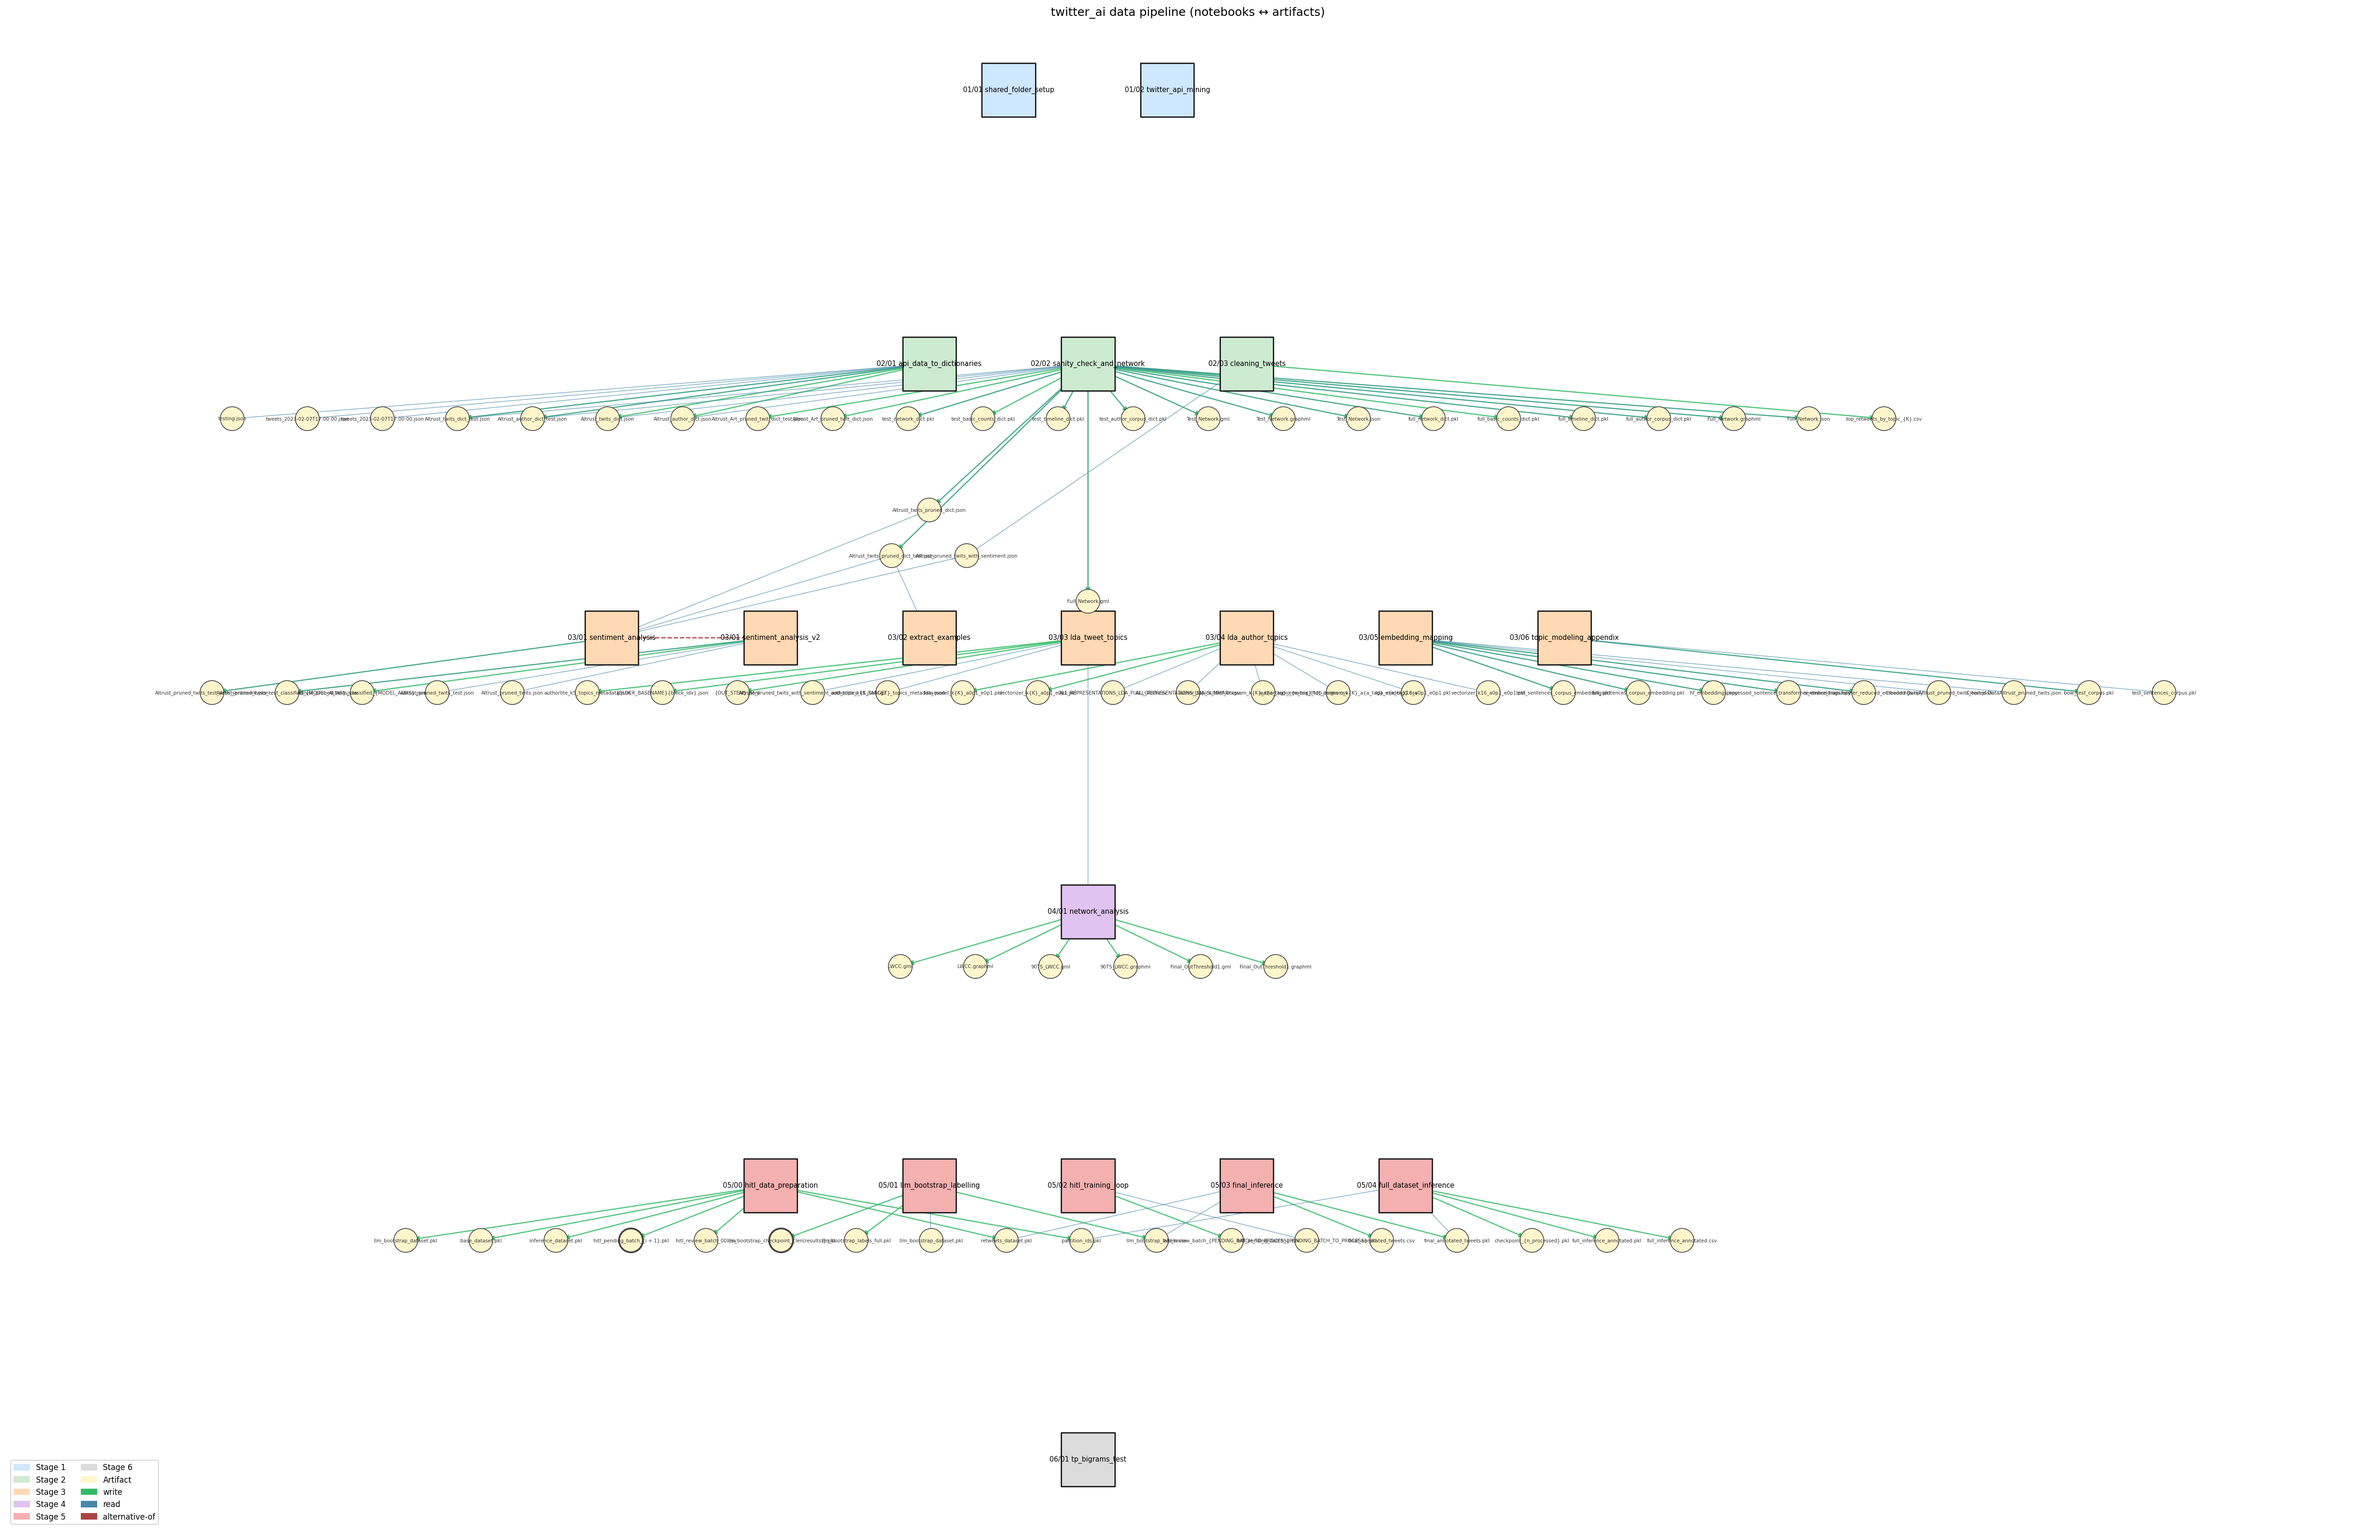
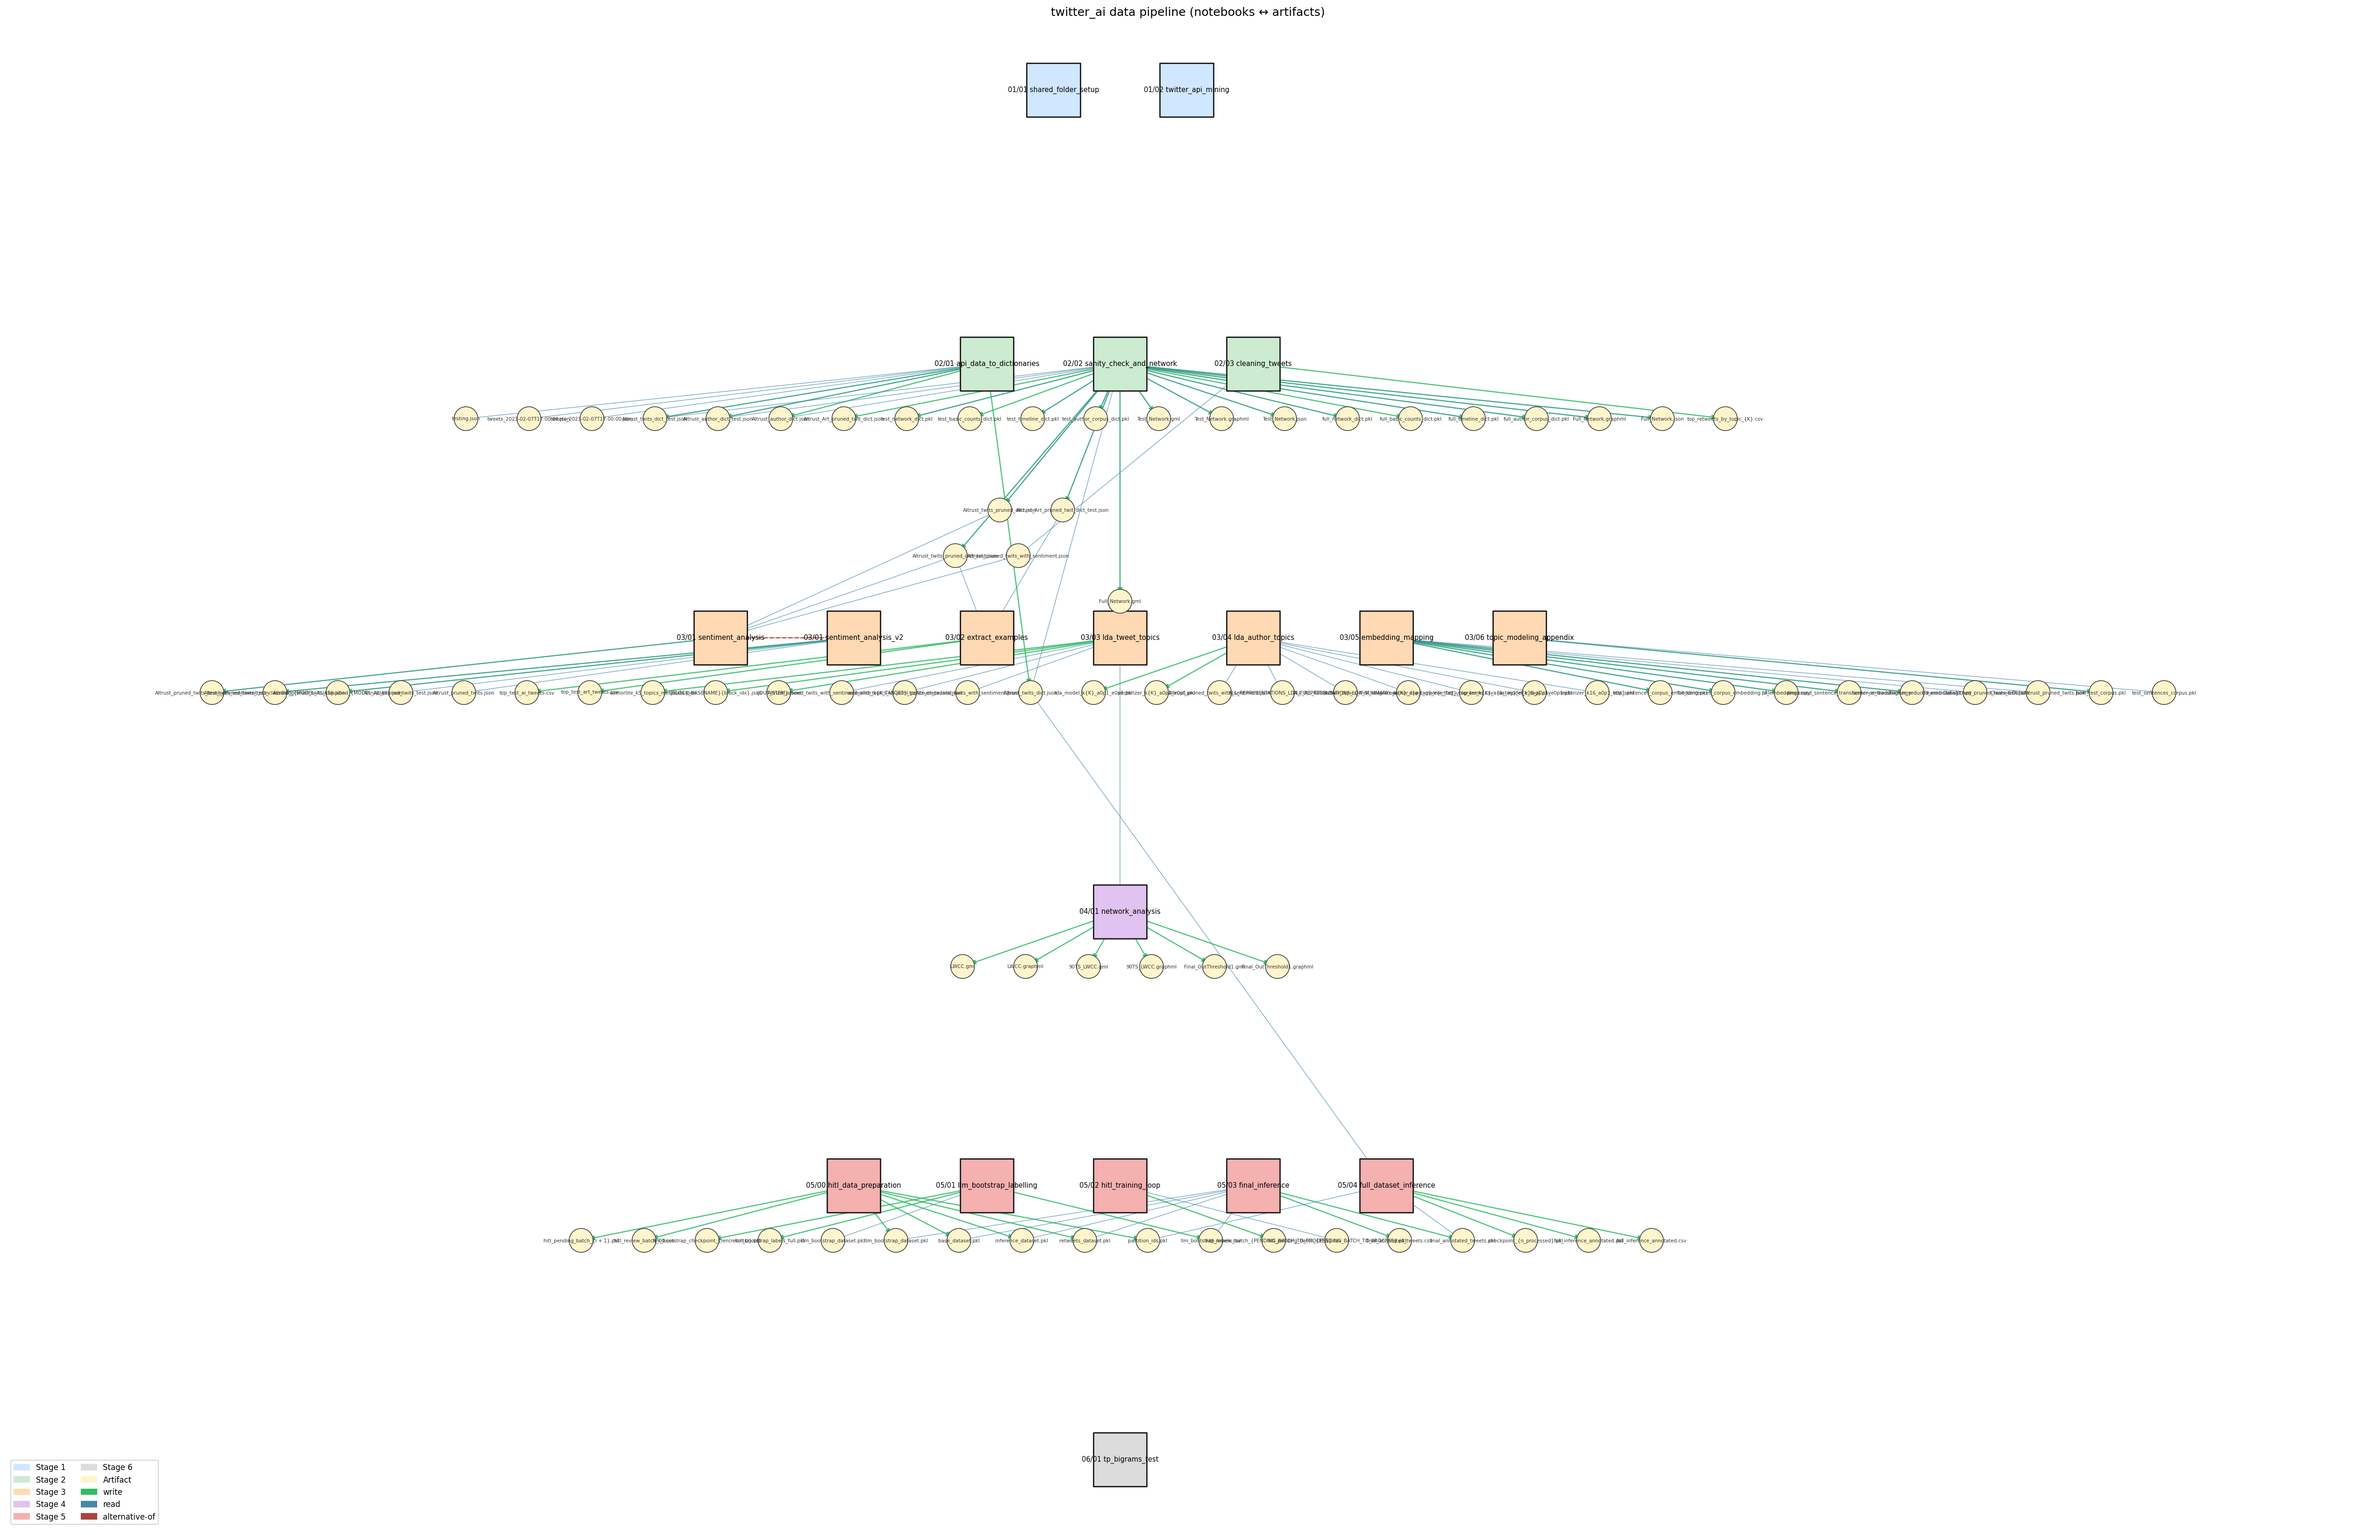
Enhance pipeline graph and notebook functionality
- Added new artifact entries for top test AI tweets and pruned tweets with sentiment in pipeline_graph.json.
- Updated paths and read/write directions in pipeline_graph.json to reflect new data sources.
- Refactored the sentiment analysis notebook to streamline environment setup and path management.
- Introduced inline function handling in pipeline_graph.py to capture I/O from user-defined functions.
- Improved the extraction of I/O operations from notebook cells, allowing for better tracking of data flow.

diff --git a/src/scripts/pipeline_graph.py b/src/scripts/pipeline_graph.py
@@ -208,6 +208,51 @@ def _classify_open_call(call: ast.Call):
     return None, None
 
 
+_SENTINEL = object()
+
+
+def _eval_iter(node, env):
+    """Resolve an iterator expression to a list of strings or tuples-of-strings.
+
+    Handles `[(a, b), (c, d)]` literal lists, `[s1, s2]` literal lists, and Names
+    bound to such lists in env. Returns None when the iterator can't be resolved.
+    """
+    if isinstance(node, ast.Name):
+        v = env.get(node.id)
+        return v if isinstance(v, list) else None
+    if isinstance(node, (ast.List, ast.Tuple)):
+        items = []
+        for elt in node.elts:
+            if isinstance(elt, ast.Tuple):
+                vals = []
+                for sub in elt.elts:
+                    s = _eval(sub, env)
+                    if not isinstance(s, str):
+                        return None
+                    vals.append(s)
+                items.append(tuple(vals))
+            else:
+                s = _eval(elt, env)
+                if not isinstance(s, str):
+                    return None
+                items.append(s)
+        return items
+    return None
+
+
+def _bind(env: dict, name: str, value):
+    saved = env.get(name, _SENTINEL)
+    env[name] = value
+    return saved
+
+
+def _restore(env: dict, name: str, saved):
+    if saved is _SENTINEL:
+        env.pop(name, None)
+    else:
+        env[name] = saved
+
+
 def _strip_magics(src: str) -> str:
     """Drop Jupyter cell-magic and line-magic lines so ast.parse succeeds."""
     lines = src.splitlines()
@@ -220,11 +265,13 @@ def _strip_magics(src: str) -> str:
     return "\n".join(cleaned)
 
 
-def extract_io_from_cell(src: str, env: dict, in_loop: bool = False):
+def extract_io_from_cell(src: str, env: dict, func_defs: dict, in_loop: bool = False):
     """Yield (kind, path_str, templated, glob) tuples for one code cell.
 
-    The env dict is mutated in place with any new {name: resolved_path} bindings
-    discovered in this cell, so later cells in the same notebook see them.
+    env is mutated in place with new {name: resolved_path} bindings discovered
+    in this cell, so later cells see them. func_defs is the {name: ast.FunctionDef}
+    map collected across the whole notebook; calls to known functions get their
+    bodies inlined (with kwargs bound) so I/O inside helper functions is captured.
     """
     try:
         tree = ast.parse(_strip_magics(src))
@@ -232,6 +279,8 @@ def extract_io_from_cell(src: str, env: dict, in_loop: bool = False):
         return
 
     yield_buffer: list = []
+    inline_depth = [0]
+    INLINE_LIMIT = 4
 
     def emit(kind, path, in_loop_ctx):
         if not isinstance(path, str):
@@ -244,18 +293,65 @@ def extract_io_from_cell(src: str, env: dict, in_loop: bool = False):
         yield_buffer.append((kind, path, templated, is_glob))
 
     def walk(node, in_loop_ctx):
-        if isinstance(node, (ast.For, ast.While, ast.AsyncFor)):
-            child_ctx = True
-        elif isinstance(node, (ast.FunctionDef, ast.AsyncFunctionDef)):
-            child_ctx = in_loop_ctx
-        else:
-            child_ctx = in_loop_ctx
-
-        # capture local path bindings as we walk, so later statements see them
+        # capture path-like and list-like bindings so later statements see them
         if isinstance(node, ast.Assign) and len(node.targets) == 1 and isinstance(node.targets[0], ast.Name):
+            target_name = node.targets[0].id
             v = _eval(node.value, env)
             if isinstance(v, str):
-                env[node.targets[0].id] = v
+                env[target_name] = v
+            else:
+                lst = _eval_iter(node.value, env)
+                if lst is not None:
+                    env[target_name] = lst
+
+        # unroll for-loops over literal lists of tuples/strings
+        if isinstance(node, ast.For):
+            iter_vals = _eval_iter(node.iter, env)
+            if iter_vals is not None:
+                target = node.target
+                for vals in iter_vals:
+                    saved: dict = {}
+                    if isinstance(target, ast.Tuple) and isinstance(vals, tuple):
+                        names = [t.id for t in target.elts if isinstance(t, ast.Name)]
+                        if len(names) == len(vals):
+                            for n, val in zip(names, vals):
+                                saved[n] = _bind(env, n, val)
+                    elif isinstance(target, ast.Name):
+                        saved[target.id] = _bind(env, target.id, vals)
+                    for child in node.body:
+                        walk(child, True)
+                    for n, prev in saved.items():
+                        _restore(env, n, prev)
+                return  # don't fall through to default child walk
+
+        # inline calls to known user-defined functions, propagating kwargs
+        if isinstance(node, ast.Call) and isinstance(node.func, ast.Name) and node.func.id in func_defs:
+            if inline_depth[0] < INLINE_LIMIT:
+                fdef = func_defs[node.func.id]
+                saved: dict = {}
+                # positional args → param names
+                params = [a.arg for a in fdef.args.args]
+                for i, arg_node in enumerate(node.args):
+                    if i >= len(params):
+                        break
+                    v = _eval(arg_node, env)
+                    if isinstance(v, str):
+                        saved[params[i]] = _bind(env, params[i], v)
+                # keyword args
+                for kw in node.keywords:
+                    if kw.arg is None:
+                        continue
+                    v = _eval(kw.value, env)
+                    if isinstance(v, str):
+                        saved[kw.arg] = _bind(env, kw.arg, v)
+                inline_depth[0] += 1
+                for child in fdef.body:
+                    walk(child, in_loop_ctx)
+                inline_depth[0] -= 1
+                for n, prev in saved.items():
+                    _restore(env, n, prev)
+                # also walk arg subtrees for any I/O hidden in the call site itself
+                # (rare, but harmless), then continue to the default walk below
 
         if isinstance(node, ast.With):
             for item in node.items:
@@ -300,10 +396,24 @@ def extract_io_from_cell(src: str, env: dict, in_loop: bool = False):
                         emit("read", _eval(path_node, env), in_loop_ctx)
 
         for child in ast.iter_child_nodes(node):
-            walk(child, child_ctx)
+            walk(child, in_loop_ctx)
 
     walk(tree, in_loop)
     yield from yield_buffer
+
+
+def _collect_func_defs(code_cells) -> dict:
+    """Walk every cell and return {func_name: ast.FunctionDef} for top-level defs."""
+    out: dict = {}
+    for cell in code_cells:
+        try:
+            tree = ast.parse(_strip_magics(cell.source))
+        except SyntaxError:
+            continue
+        for stmt in tree.body:
+            if isinstance(stmt, (ast.FunctionDef, ast.AsyncFunctionDef)):
+                out[stmt.name] = stmt
+    return out
 
 
 def parse_notebook(path: Path):
@@ -317,13 +427,14 @@ def parse_notebook(path: Path):
         return {"reads": [], "writes": [], "env": {}, "unresolved": []}
 
     env, _ = collect_path_env(code_cells[0].source)
+    func_defs = _collect_func_defs(code_cells)
 
     reads: dict = {}
     writes: dict = {}
     unresolved: list = []
 
     for cell in code_cells[1:]:
-        for kind, p, templated, glob in extract_io_from_cell(cell.source, env):
+        for kind, p, templated, glob in extract_io_from_cell(cell.source, env, func_defs):
             entry = {"path": p, "templated": templated, "glob": glob}
             target = writes if kind == "write" else reads
             target[p] = entry
